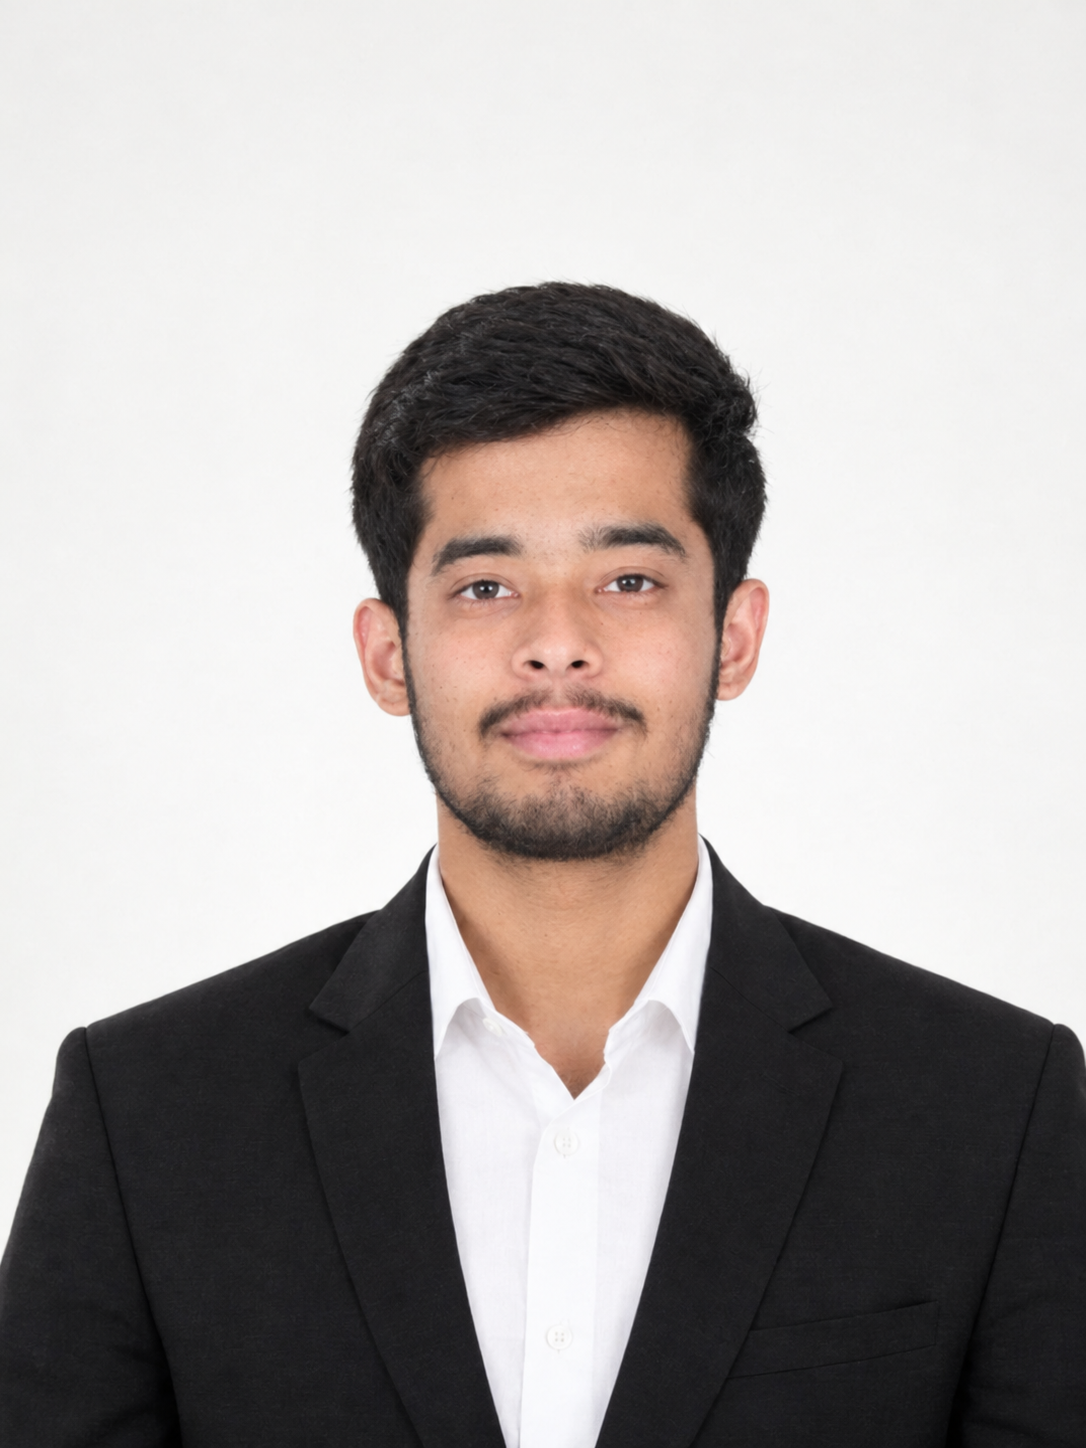
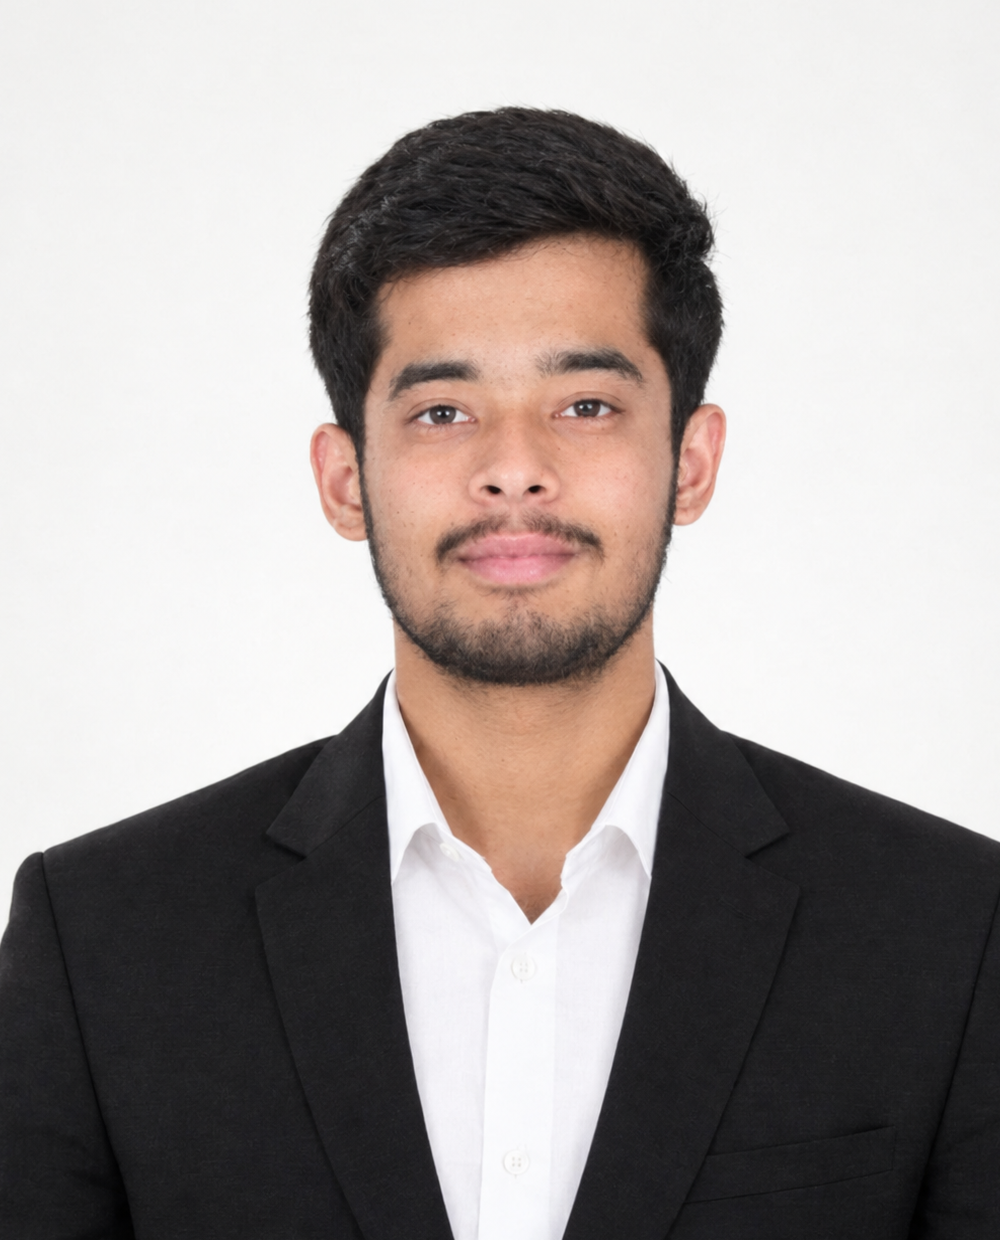
Profile picture and SVG edited

diff --git a/client/src/components/About.css b/client/src/components/About.css
@@ -49,11 +49,13 @@
   width: 100%;
   height: 100%;
   object-fit: cover;
-  object-position: center 15%;
-  transition: transform 0.4s ease;
+  object-position: center top;
+  transform: scale(1.08);
+  transform-origin: center 28%;
+  transition: transform 0.4s cubic-bezier(0.2, 0.8, 0.2, 1);
 }
 .about-photo:hover img {
-  transform: scale(1.03);
+  transform: scale(1.14);
 }
 .photo-placeholder {
   width: 100%; height: 100%;
